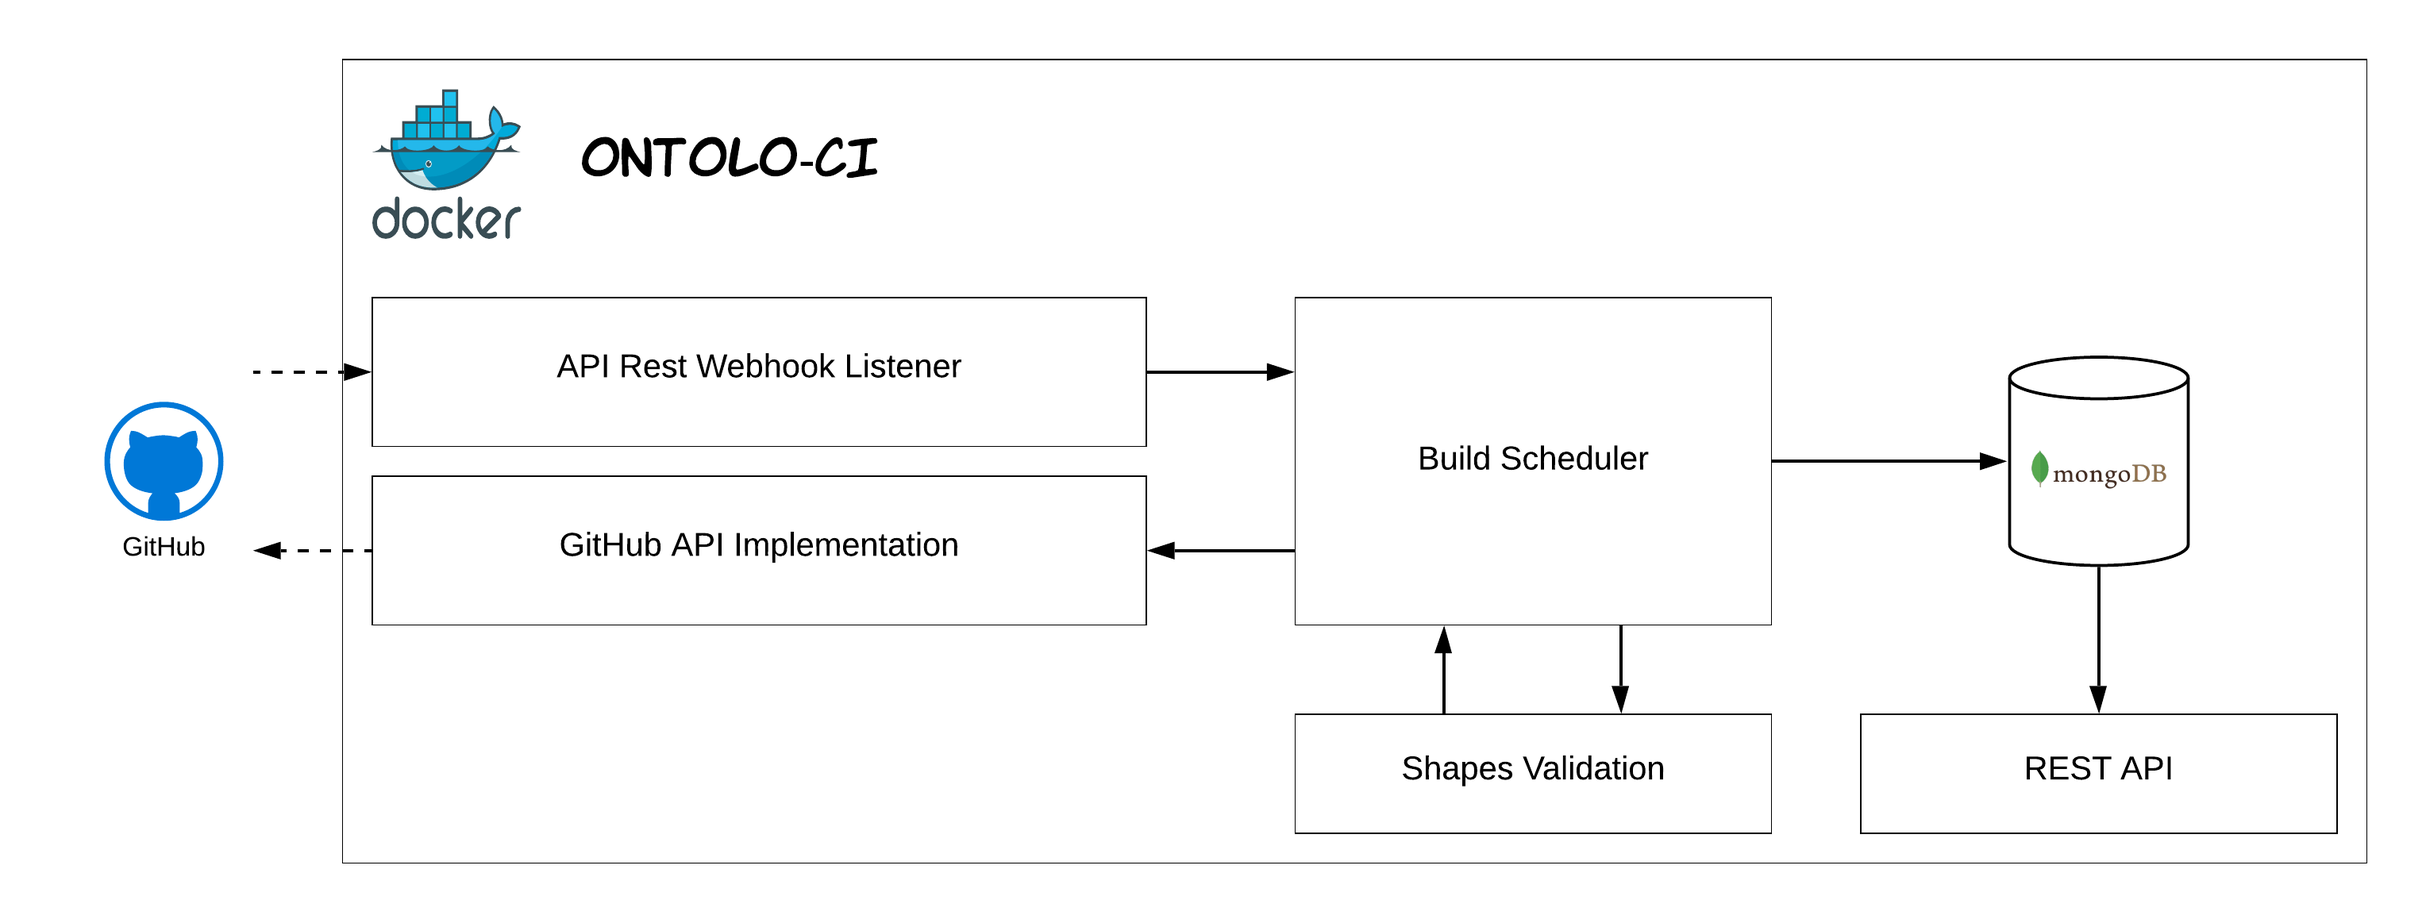
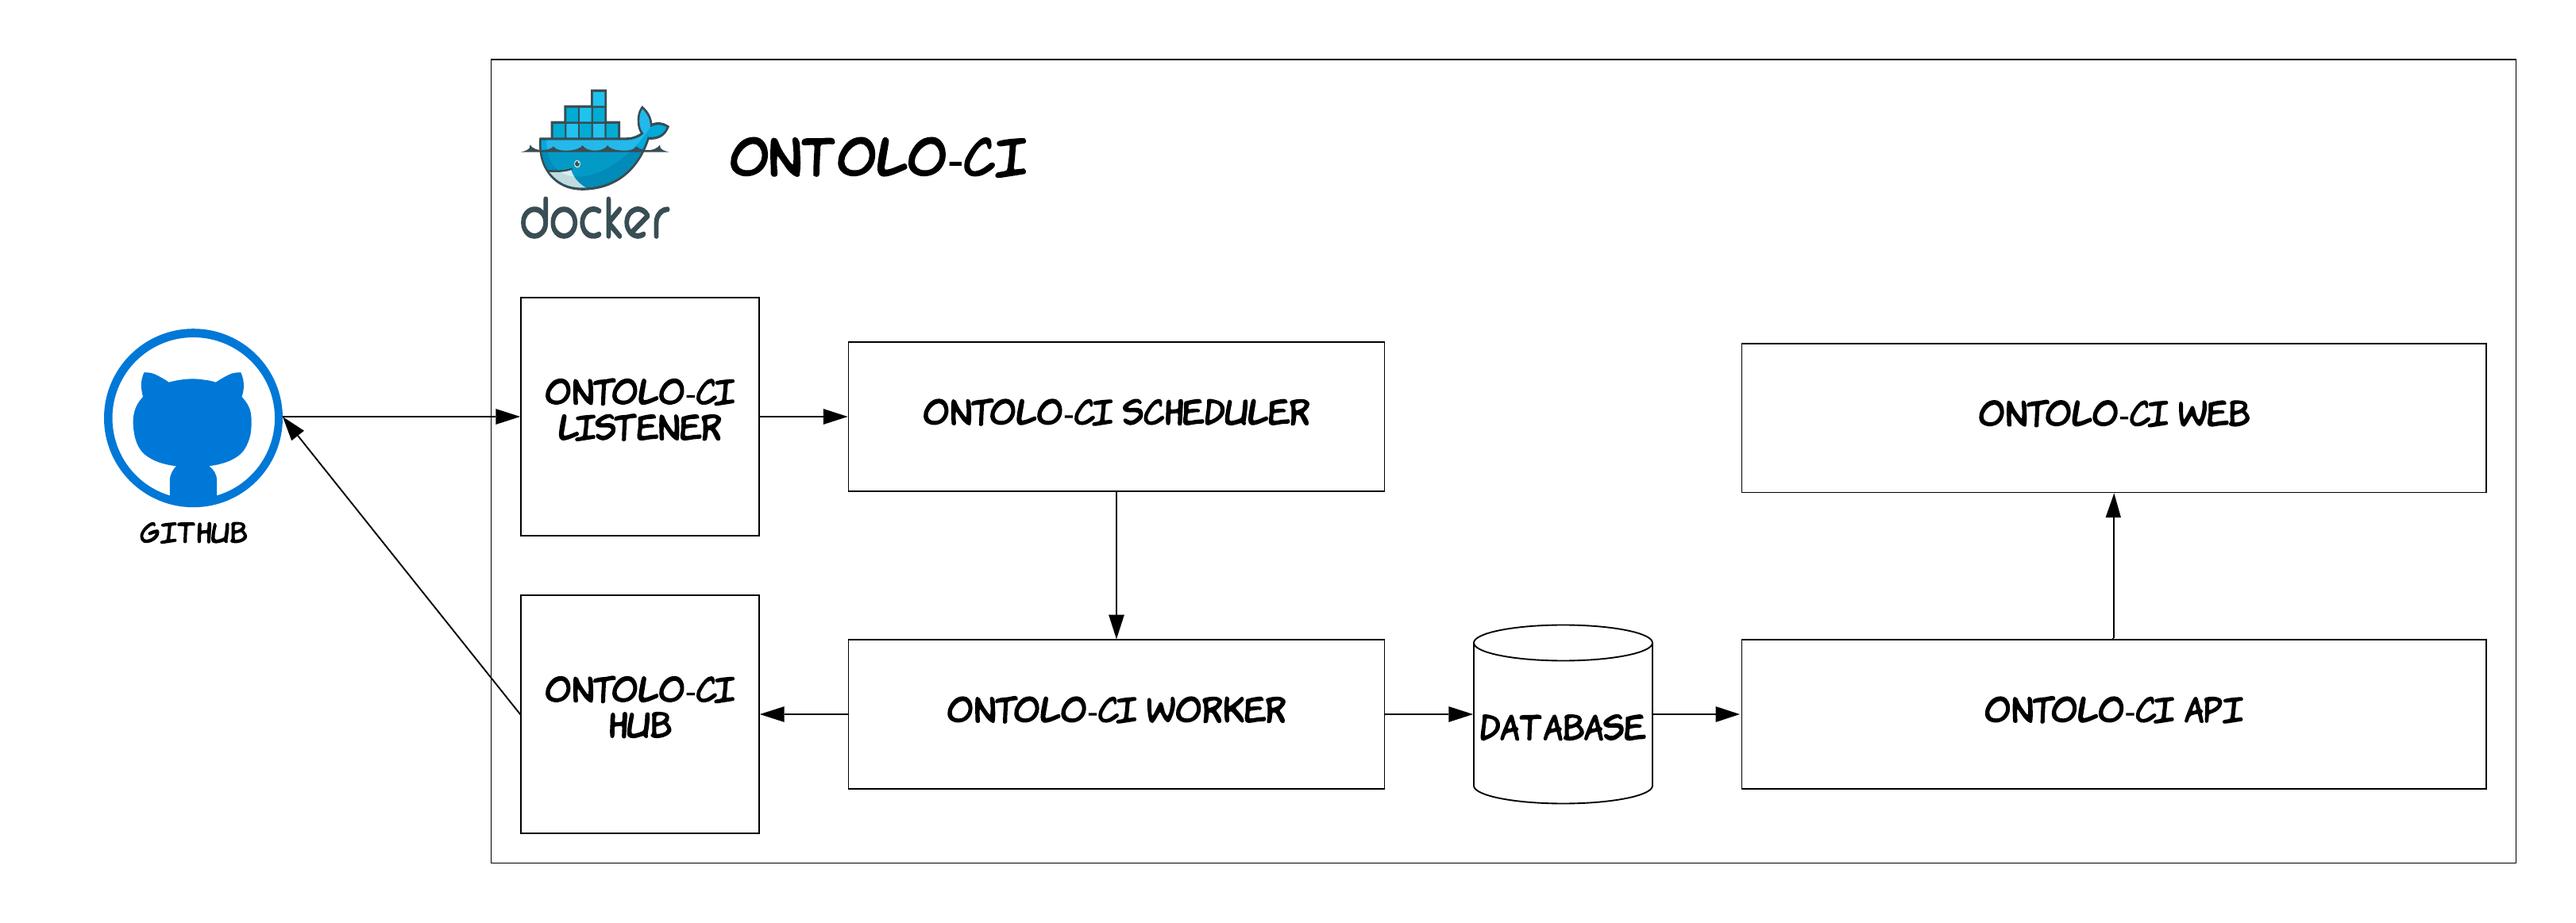
update readme

diff --git a/README.md b/README.md
@@ -1,9 +1,29 @@
-# Continuous Integration Platform for Ontologies.
+## Welcome to Ontolo-CI
 
-## 🚧 Under Construction 🚧
+Ontolo-CI is a docker based system that integrates with GitHub to provide a continuos integration system for ontologies. It uses [Shape Expressions](http://shex.io) and test instances in order to validate ontologies.
 
-Ontolo-CI is a docker based system that integrates with GitHub to provide a continuos integration system for ontologies.
+Although inspired in [Travis-CI](https://github.com/travis-ci/travis-ci) and many other continuos integration systems, Ontolo-CI is focused on develop continuos integration for ontologies. This is done by means of test instances and Shape Expressions. Furthermore, Ontolo-CI is integrated with GitHub, so you can add it as a check to Pull Requests or Pushes to different branches.
+
+The following diagram illustrates the architecture of Ontolo-CI. As can be seen, it can be deployed as a docker container in any machine. Then it will listen to [GitHub Webhooks](https://developer.github.com/webhooks/). Whenever a webhook from github arrives it inmediatelly schedulles a build and after the build is finished Ontolo-CI will notify GitHub and publish the data on its webpage.
 
 ![](docs/ontolo-ci-main-schema.png)
 
+## Docker Container
+
+Ontolo-CI is shipped as a Docker container so that anyone can deploy its own instance on demand. Inside the Docker container there are several components that work together. The following schema shows them.
+
 ![](docs/ontolo-ci-schema-docker.png)
+
+ - **Ontolo-CI Listener:** The listener component receives notifications from GitHub when a Pull Request is started or when commits are pushed. This notifies the scheduller about the new build to perform.
+
+ - **Ontolo-CI Hub:** It acts as a GitHub API interface client. It allows the system to collect files from GitHub but also to inform about the status of the builds.
+
+ - **Ontolo-CI Scheduller:** This component receives builds to schedule from the listener, then creates a worker with the build and schedules its execution.
+
+ - **Ontolo-CI Worker:** Each worker contains a build to execute. A build is a set of tests to execute over an ontology. It only knows how to execute tests when told and who to notificate when finished.
+
+ - **Database:** When a build is finished by a worker the results of the build are stored in a database. Up to now the results that are being stored are: _repo_, _branch_, _event_, _result_. Where the result stores not only the results of the test cases, but also the execution time and other metrics.
+
+ - **Ontolo-CI API:** The API provides an access layer for thrid party services that need to explore the data from an Ontolo-CI instance. It is also used by the web service. It only allows reading data at the time.
+
+ - **Ontolo-CI Web:** Is a Web interface that stores the results of all executions schedulled, under execution and executed.
